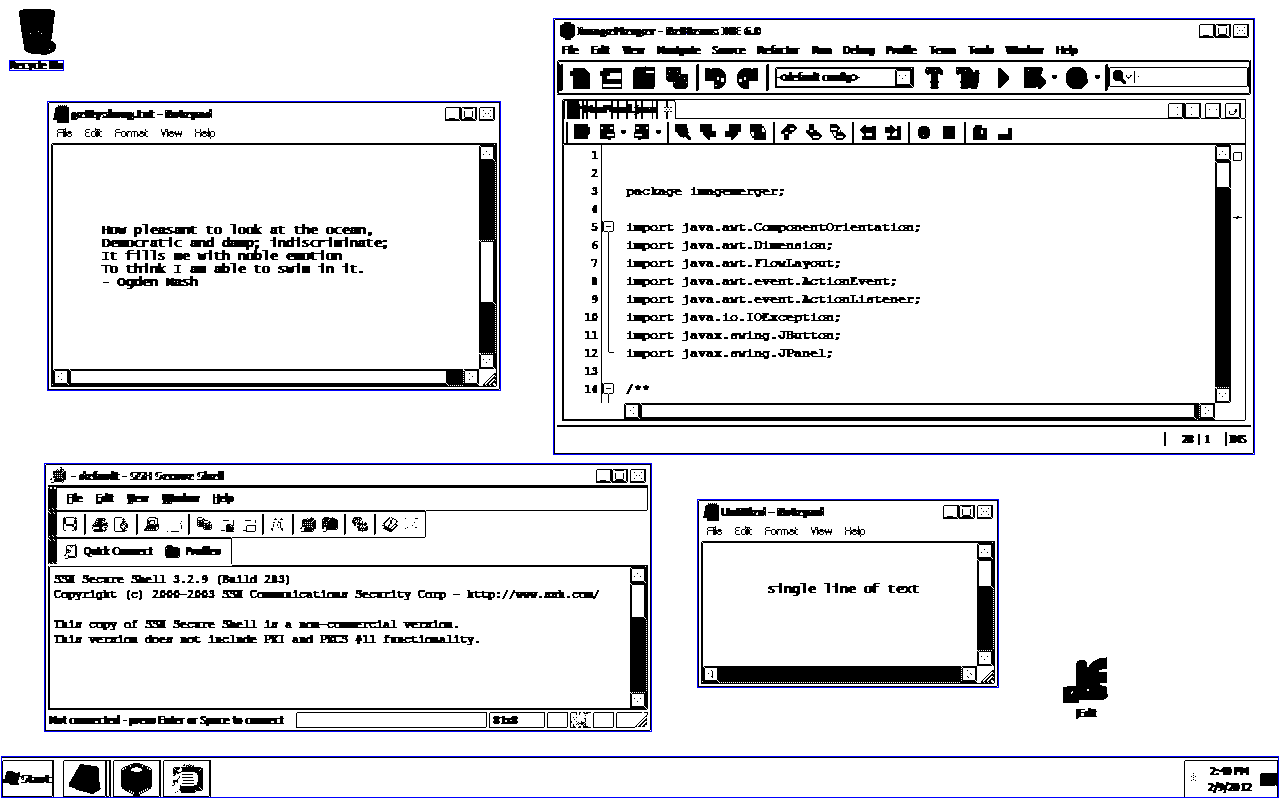
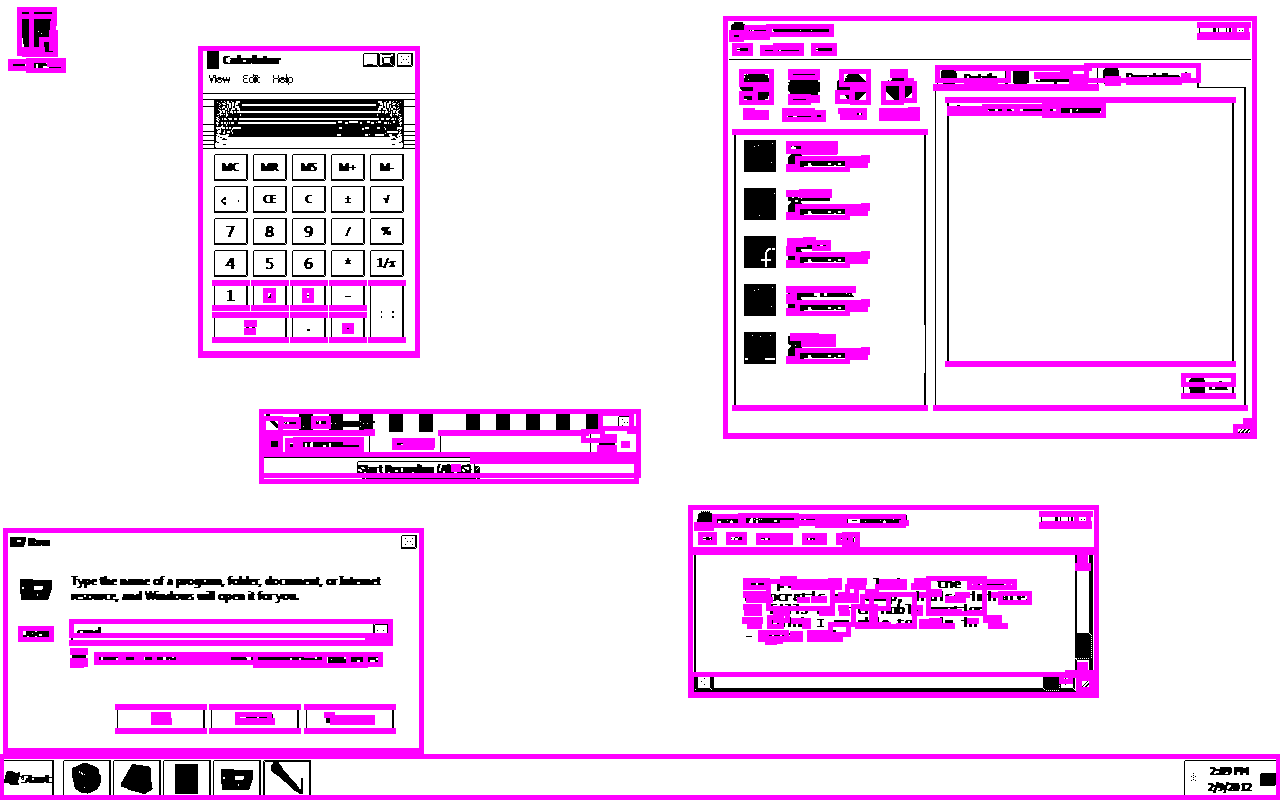
Changed  k^3 loop to k^2 wooohoooo

Changed region(s): [[0.0, 0.0, 1.0, 1.0], [0.0, 0.0, 0.0625, 0.0938]]

diff --git a/src/src/IDT.java b/src/src/IDT.java
@@ -69,7 +69,11 @@ public class IDT {
         System.out.println("DONE");
 
         System.out.print("Grouping blocks of black pixels into rectangles...");
-        ArrayList<ArrayList<Point>> groups = makeLists(srcFilename);
+        ArrayList<Rectangle> groups = makeLists(srcFilename);
+        System.out.println("DONE");
+        
+        System.out.print("Removing irrelvant small rectangles...");
+        removeStatic(groups);
         System.out.println("DONE");
 
         System.out.print("Merging rectangles...");
@@ -238,48 +242,38 @@ public class IDT {
      * @return ArrayList<ArrayList<Point>> the list of list of points
      */
     @SuppressWarnings("unchecked")
-    private static ArrayList<ArrayList<Point>> makeLists(String modifiedFile) {
+    private static ArrayList<Rectangle> makeLists(String modifiedFile) {
         Collections.sort(fullList);
-        ArrayList<ArrayList<Point>> lists = new ArrayList<ArrayList<Point>>();
+        ArrayList<Rectangle> lists = new ArrayList<Rectangle>();
         for (int i = 0; i < fullList.size(); i++) {
             Point curPoint = fullList.get(i);
             boolean placed = false;
             for (int j = 0; j < lists.size(); j++) {
-                ArrayList<Point> curList = lists.get(j);
-                for (int k = 0; k < curList.size(); k++) {
-                    if (curList.get(k).distance(curPoint) < THRESHOLD) {
-                        curList.add(curPoint);
-                        placed = true;
-                        break;
-                    }
-                    if (placed)
-                        break;
+                Rectangle r = lists.get(j);
+                if ( distanceFromRect( curPoint, r) < THRESHOLD ) {
+                    r.add( curPoint );
+                    placed = true;
+                    break;
                 }
             }
             if (!placed) {
-                ArrayList<Point> newList = new ArrayList<Point>();
-                newList.add(curPoint);
-                lists.add(newList);
+                Rectangle newRect = new Rectangle(curPoint);
+                lists.add(newRect);
             }
         }
         return lists;
     }
-
-    @SuppressWarnings("unchecked")
-    private static List<Rectangle> mergeRectangles(
-            ArrayList<ArrayList<Point>> lists) {
-        List<Rectangle> rects = new ArrayList<Rectangle>();
-        for (int i = 0; i < lists.size(); i++) {
-            ArrayList<Point> list = lists.get(i);
-            if (list.size() <= 50)
-                continue;
-            Collections.sort(list);
-            ConvexHull c = new ConvexHull(list);
-            Polygon answer = c.grahamScan();
-            Rectangle rect = answer.getBounds();
-            rects.add(rect);
+    private static void removeStatic(ArrayList<Rectangle> rects) {
+        int i = 0;
+        while ( i < rects.size()) {
+            if ( rects.get(i).width * rects.get(i).height < THRESHOLD )
+                rects.remove(i);
+            else
+                i++;
         }
-
+    }
+    private static List<Rectangle> mergeRectangles(
+            ArrayList<Rectangle> rects) {
         int i = 0;
         while (i < rects.size()) {
             boolean flag = false;
@@ -337,5 +331,26 @@ public class IDT {
             }
             buf.close();
         }
+    }
+    public static double distanceFromRect( Point p, Rectangle r) {
+        if ( r.contains( p ) )
+            return 0.0;
+        double hdistance = 0;
+        double vdistance = 0;
+        
+        //check for hdistance
+        if ( p.getX() > r.getMaxX() )
+            hdistance = p.getX() - r.getMaxX();
+        else if ( p.getX() < r.getMinX() )
+            hdistance = r.getMinX() - p.getX();
+        
+      //check for vdistance
+        if ( p.getY() > r.getMaxY() )
+            vdistance = p.getY() - r.getMaxY();
+        else if ( p.getY() < r.getMinY() )
+            vdistance = r.getMinY() - p.getY();
+            
+        
+        return Math.sqrt( hdistance * hdistance + vdistance * vdistance );
     }
 }

diff --git a/src/src/Point.java b/src/src/Point.java
@@ -6,10 +6,9 @@ import java.awt.geom.Point2D;
  * between two points.
  */
 @SuppressWarnings("rawtypes")
-public class Point implements Comparable {
+public class Point 
+    extends java.awt.Point implements Comparable {
     
-    /* The x and y coordinates of this point*/
-    private int x, y;
     
     /**
      * Constructor. Creates a point object given the x and y coordinates. 
@@ -36,20 +35,6 @@ public class Point implements Comparable {
         if (this.x < that.x) return -1;
         if (this.x > that.x) return +1;
         return 0;
-    }
-    
-    /**
-     * @return x Return the x point
-     */
-    public int getX() {
-        return x;
-    }
-    
-    /**
-     * @return y Return the y point
-     */
-    public int getY() {
-        return y;
     }
     
     /**

diff --git a/src/src/ConvexHull.java b/src/src/ConvexHull.java
@@ -65,8 +65,8 @@ public class ConvexHull {
     }
 
     public long distance2(Point a, Point b) {
-        return (b.getX() - a.getX()) * (b.getX() - a.getX())
-                + (b.getY() - a.getY()) * (b.getY() - a.getY());
+        return (long) ((b.getX() - a.getX()) * (b.getX() - a.getX())
+                + (b.getY() - a.getY()) * (b.getY() - a.getY()));
     }
 
     public int ccw(Point p1, Point p2, Point p3) {
